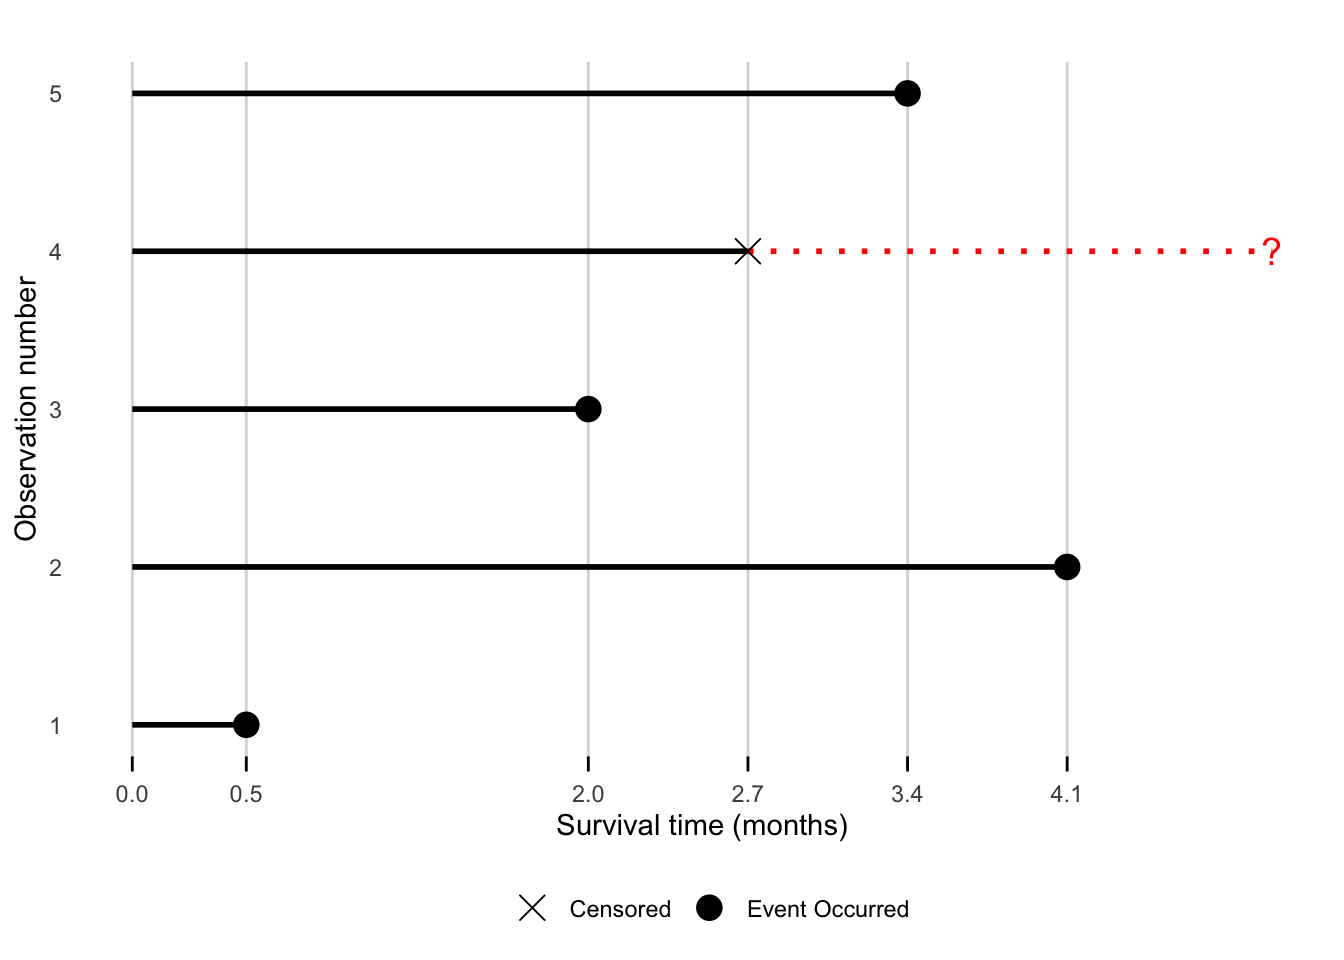
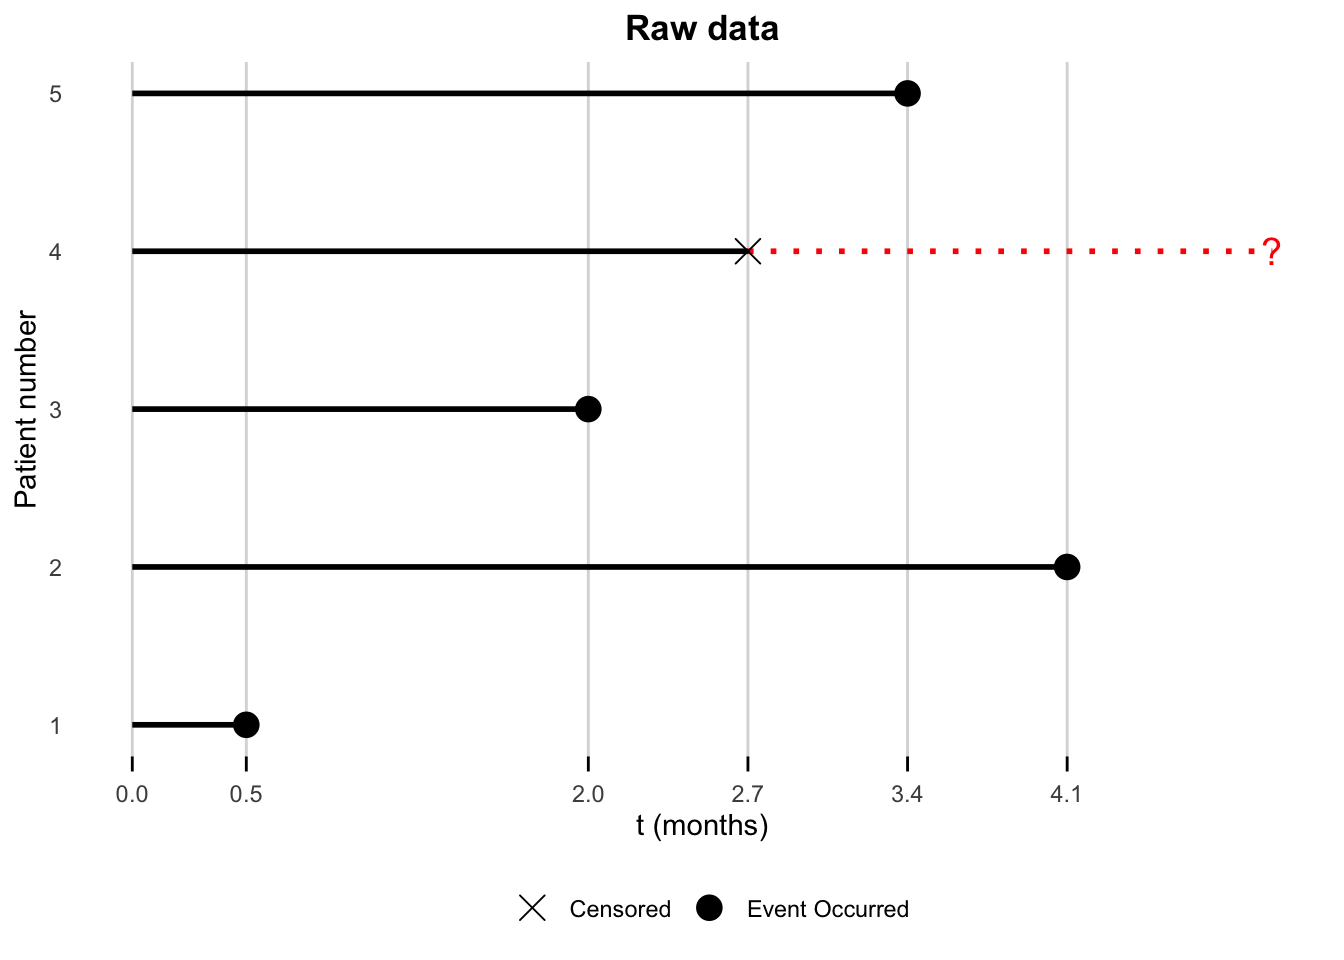
Fix chapter 5 typos

Changed region(s): [[0.0, 0.2812, 0.0312, 0.5625], [0.4688, 0.0, 0.5938, 0.0625], [0.4062, 0.8438, 0.625, 0.875]]

diff --git a/medstats/survivor.html b/medstats/survivor.html
@@ -397,7 +397,7 @@ Note
 </section>
 <section id="kaplan-meier-estimate-of-st" class="level2" data-number="5.2">
 <h2 data-number="5.2" class="anchored" data-anchor-id="kaplan-meier-estimate-of-st"><span class="header-section-number">5.2</span> Kaplan-Meier estimate of <span class="math inline">\(S(t)\)</span></h2>
-<p>As an example, suppose we have 5 observations: event times (e.g.&nbsp;times of death) at 0.5, 2.7 and 4.1 months, and censored observations at 2 and 6 months, as illustrated below.</p>
+<p>As an example, suppose we have 5 observations: event times (e.g.&nbsp;times of death) at 0.5, 2, 3.4 and 4.1 months, and a censored observation at 2.7 months, as illustrated below.</p>
 <div class="cell">
 <div class="cell-output-display">
 <div>

diff --git a/medstats/index.html b/medstats/index.html
@@ -206,7 +206,7 @@ ul.task-list li input[type="checkbox"] {
     <div>
     <div class="quarto-title-meta-heading">Published</div>
     <div class="quarto-title-meta-contents">
-      <p class="date">16 October, 2026</p>
+      <p class="date">26 October, 2026</p>
     </div>
   </div>
   
